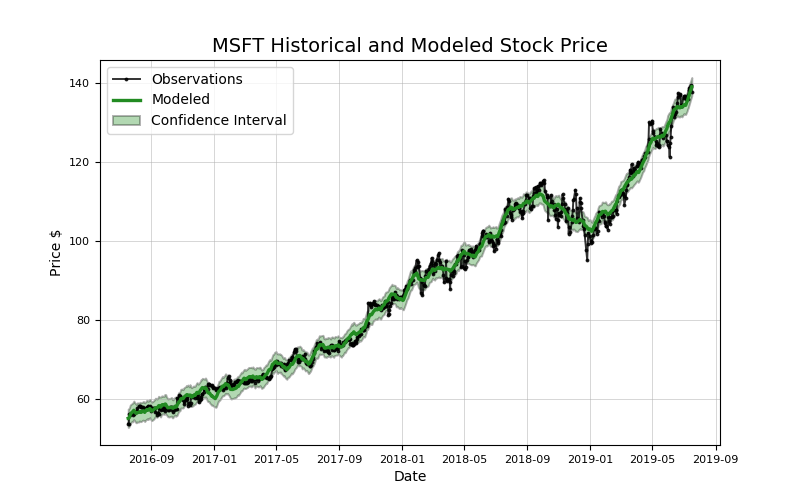
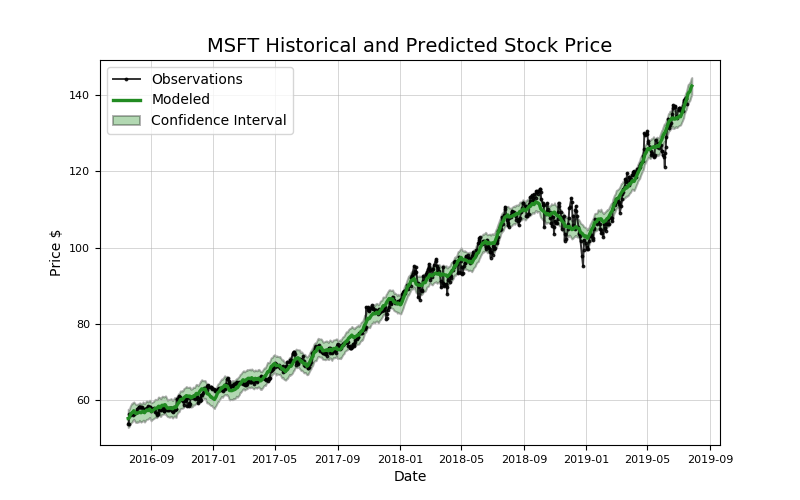
more plots

diff --git a/templates/Dashboard.html b/templates/Dashboard.html
@@ -42,7 +42,7 @@ Tip 2: you can also add an image using data-image tag
 <div class="logo">
 </a>
 <a href="" class="simple-text logo-normal">
-  StockAnalytica
+  Stock Explorer
 </a>
 </div>
 <div class="sidebar-wrapper">
@@ -167,7 +167,9 @@ Tip 2: you can also add an image using data-image tag
             </div>
             <div class="card-body">
               <h4 class="card-title">Stock Prediction</h4>
-              <p class="card-category"></p>
+              <p class="card-category">
+                {{ prophet_model.predicted_price }}
+              </p>
 
             </div>
             <div class="card-footer">
@@ -177,12 +179,32 @@ Tip 2: you can also add an image using data-image tag
             </div>
           </div>
         </div>
+        <div>
+            <div class="card card-chart">
+              <div class="card-header card-header-warning">
+                <div class="ct-chart" id="websiteViewsChart"></div>
+                <img src = "{{url_for('static', filename=change_points_date.filepath)}}">
+              </div>
+              <div class="card-body">
+                <h4 class="card-title">Stock with Changepoints</h4>
+                <p class="card-category">
+                    {% for para in change_points_date.summary %}
+                    <p>{{para}}</p>
+                    {% endfor %}
+                </p>
+  
+              </div>
+              <div class="card-footer">
+                <div class="stats">
+                  <i class="material-icons"></i> 
+                </div>
+              </div>
+            </div>
+          </div>
 
       </div>
     </div>
   </div>
-
-
   <!-- End Navbar -->
   <div class="content">
     <div class="container-fluid">

diff --git a/MarketData/stocker.py b/MarketData/stocker.py
@@ -512,11 +512,13 @@ class Stocker():
             # Print the predicted price
             print('Predicted Price on {} = ${:.2f}'.format(
                 future.loc[future.index[-1], 'ds'], future.loc[future.index[-1], 'yhat']))
+            predicted_price = 'Predicted Price on {} = ${:.2f}'.format(
+                future.loc[future.index[-1], 'ds'], future.loc[future.index[-1], 'yhat'])
 
             title = '%s Historical and Predicted Stock Price'  % self.symbol
         else:
             title = '%s Historical and Modeled Stock Price' % self.symbol
-        
+            predicted_price = "none"
         # Set up the plot
         fig, ax = plt.subplots(1, 1)
 
@@ -539,7 +541,7 @@ class Stocker():
         fig.savefig("./static/" + self.tick + "-prophet-model.png", dpi=100)
         fig.clear()
         
-        return model, future
+        return model, future, predicted_price
       
     # Evaluate prediction model for one year
     def evaluate_prediction(self, start_date=None, end_date=None, nshares = None):
@@ -809,7 +811,7 @@ class Stocker():
         
             print('\nChangepoints sorted by slope rate of change (2nd derivative):\n')
             print(c_data.loc[:, ['Date', 'Adj. Close', 'delta']][:5])
-
+            summary = '\nChangepoints sorted by slope rate of change (2nd derivative):\n' + str(c_data.loc[:, ['Date', 'Adj. Close', 'delta']][:5])
             # Line plot showing actual values, estimated values, and changepoints
             self.reset_plot()
             
@@ -844,13 +846,16 @@ class Stocker():
 
             if (trends is None)  or (related_queries is None):
                 print('No search trends found for %s' % search)
-                return
+                summary = 'No search trends found for %s' % search
+                return summary.split('\n')
 
             print('\n Top Related Queries: \n')
             print(related_queries[search]['top'].head())
 
             print('\n Rising Related Queries: \n')
             print(related_queries[search]['rising'].head())
+
+            summary = '\n Top Related Queries: \n' + str(related_queries[search]['top'].head()) + '\n Rising Related Queries: \n' + related_queries[search]['rising'].head()
 
             # Upsample the data for joining with training data
             trends = trends.resample('D')
@@ -890,6 +895,7 @@ class Stocker():
             fig = plt.gcf()
             fig.savefig("./static/" + self.tick + "-changepoint-date-analysis.png", dpi=100)
             fig.clear()
+        return summary.split('\n')
         
     # Predict the future price for a given range of days
     def predict_future(self, days=30):

diff --git a/stock-explorer.py b/stock-explorer.py
@@ -2,6 +2,7 @@ from flask import Flask
 from flask import request
 from flask import render_template
 from flask import send_file
+import matplotlib.pyplot as plt
 
 from MarketData.stocker import Stocker
 
@@ -20,16 +21,20 @@ class Prophet_Model():
     def __init__(self, stock, ticker, days=0):
         # of days into the future to predict
         self.days = days
-        self.model, self.model_data = stock.create_prophet_model(self.days)
+        self.model, self.model_data, self.predicted_price = stock.create_prophet_model(self.days)
         self.filepath = ticker + "-prophet-model.png"
 
 class Trends_Plot():
-    def __init__(self, model, model_data):
-        self.filepath = ""
+    def __init__(self, ticker, model, model_data):
+        model.plot_components(model_data)
+        fig = plt.gcf()
+        fig.savefig("./static/" + self.tick + "-trends-plot.png", dpi=100)
+        fig.clear()
+        self.filepath = ticker + "-trends-plot.png"
 
 class Change_Points_Date():
-    def __init__(self, stock, ticker):
-        stock.changepoint_date_analysis()
+    def __init__(self, stock, ticker, changept_search):
+        self.summary = stock.changepoint_date_analysis(search=changept_search)
         self.filepath = ticker + "-changepoint-date-analysis.png"
 
 @app.route('/', methods=['GET','POST'])
@@ -43,10 +48,11 @@ def plot_input_post():
     stock = Stocker(ticker=text)
     # create plot objects
     history_plot = History_Plot(stock, text)
-    future_days = 0
+    future_days = 10
     prophet_model = Prophet_Model(stock, text, future_days)
-    trends_plot = Trends_Plot(prophet_model.model, prophet_model.model_data)
-    change_points_date = Change_Points_Date(stock, text)
+    trends_plot = Trends_Plot(text, prophet_model.model, prophet_model.model_data)
+    changept_search = ""
+    change_points_date = Change_Points_Date(stock, text, changept_search)
 
     return render_template("Dashboard.html", history_plot=history_plot, prophet_model=prophet_model, trends_plot=trends_plot, change_points_date=change_points_date)
 
